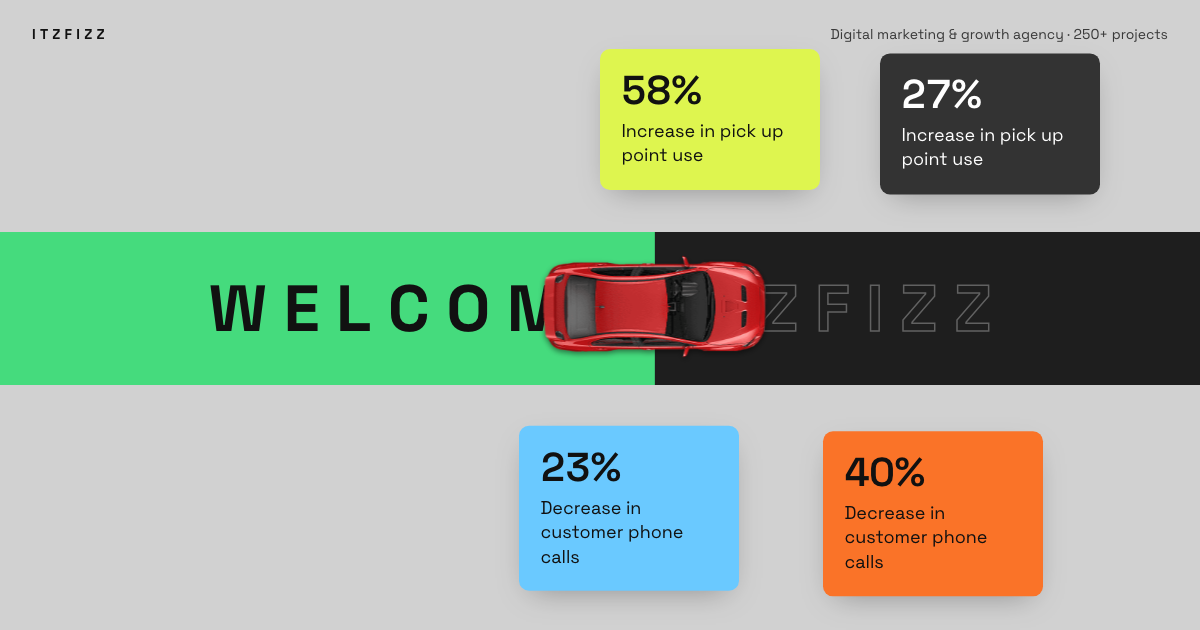
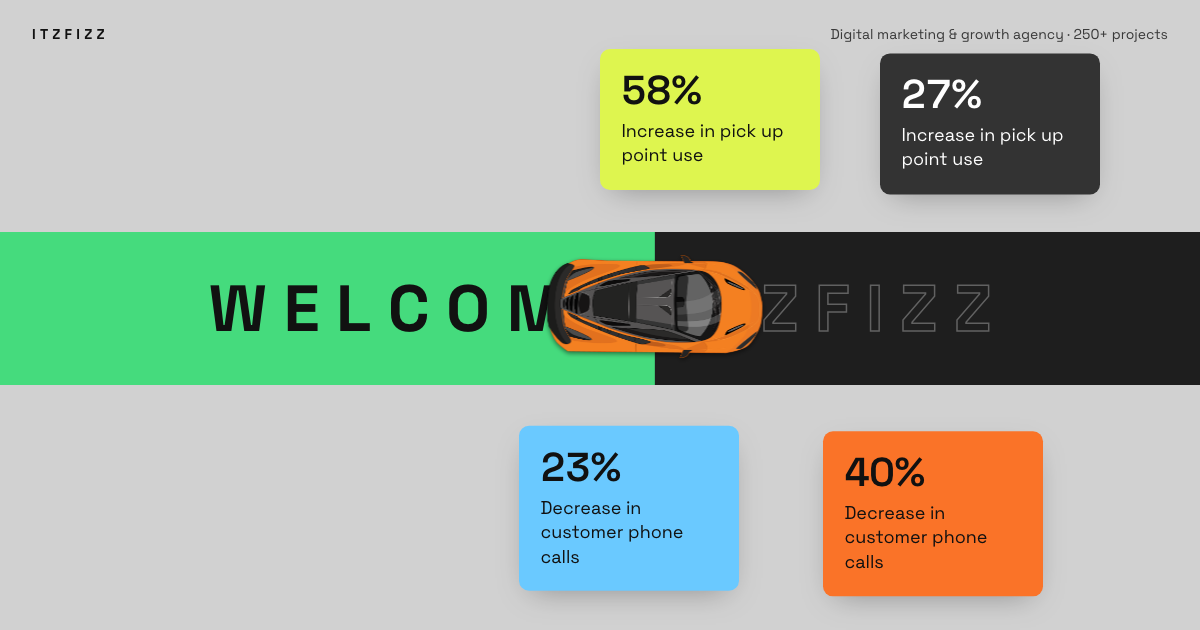
Use the reference's McLaren 720S as the car
Sharper (from a 3981px transparent original) and sportier than the
hatchback photo. Resized for retina, shadow baked in, 2.2:1 frame.
Refresh README screenshots and Open Graph image.

Changed region(s): [[0.4317, 0.3921, 0.6475, 0.573]]

diff --git a/components/HeroSection.tsx b/components/HeroSection.tsx
@@ -247,9 +247,9 @@ export default function HeroSection() {
             <div data-car-body data-intro className="size-full">
               <Image
                 src={assetPath("/car.png")}
-                alt="Top view of a red car driving along the road"
-                width={739}
-                height={336}
+                alt="Top view of an orange McLaren sports car driving along the road"
+                width={1023}
+                height={465}
                 preload
                 draggable={false}
                 className="size-full object-contain select-none"

diff --git a/README.md b/README.md
@@ -80,7 +80,7 @@ lib/
   gsap.ts                 registers GSAP plugins once
   stats.ts                stat card data
   assetPath.ts            adds the GitHub Pages basePath to /public assets
-public/car.png            top-down car image (background removed, rotated, shadow baked in)
+public/car.png            top-down McLaren 720S (shadow baked in, 2.2:1 frame)
 .github/workflows/deploy.yml
 ```
 
@@ -107,6 +107,6 @@ Three settings make the static export work on GitHub Pages:
 
 ## Credits
 
-Inspired by the [car scroll animation reference](https://paraschaturvedi.github.io/car-scroll-animation) provided with the assignment. The top-down car is a free PNG. Its baked-in checkerboard background was removed, it was rotated to face the direction of travel, and a soft shadow was baked in so the moving car needs no CSS filter.
+Inspired by the [car scroll animation reference](https://paraschaturvedi.github.io/car-scroll-animation) provided with the assignment. The top-down McLaren 720S image is the one used by that reference demo. It was resized for retina screens and given a baked-in soft shadow, so the moving car needs no CSS filter.
 
 Built by **Iraa Garg** ([github.com/iraagarg](https://github.com/iraagarg)).
